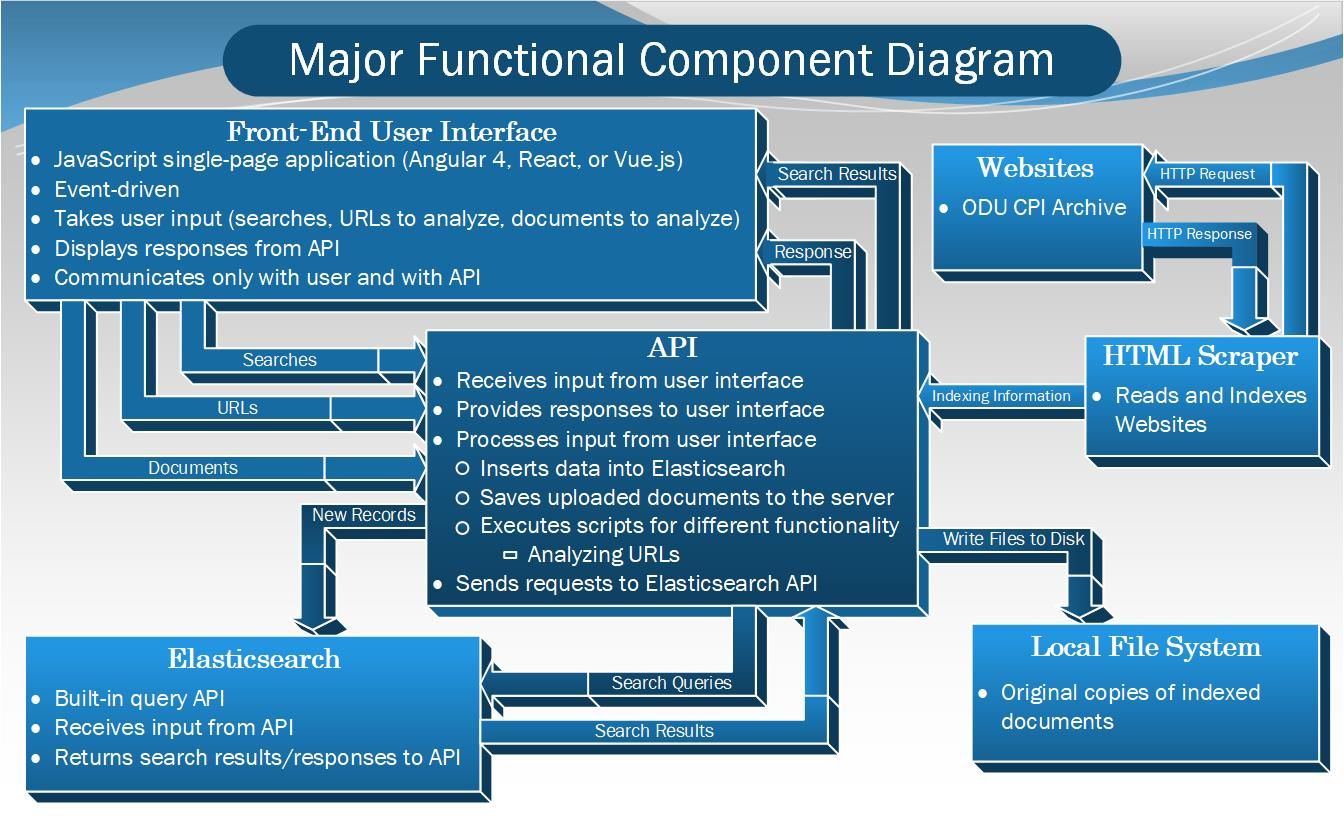
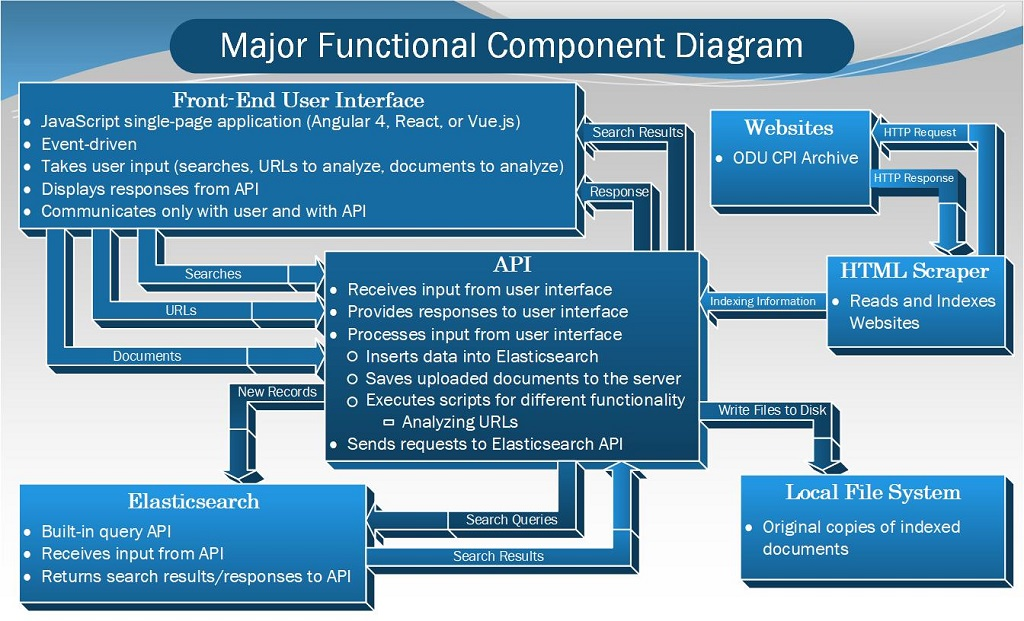
Updated Pages for MFCD

diff --git a/project-overview.html b/project-overview.html
@@ -136,7 +136,7 @@
                                     </tbody></table>
 
                                     <h2 class="tm-news-title dark-gray-text">Major Functional Component Diagram</h2>
-                                    <img src="img/majorfunctionalcomponent3_1024.jpg" alt="Major Functional Component Diagram" />
+                                    <img src="img/project-overview/MajorFunctionalComponent5.jpg" alt="Major Functional Component Diagram" />
 
                                     <h2 class="tm-news-title dark-gray-text">Mock Ups</h2>
                                     <img src="img/project-overview/Mock1.jpg" alt="Mock 1" />
